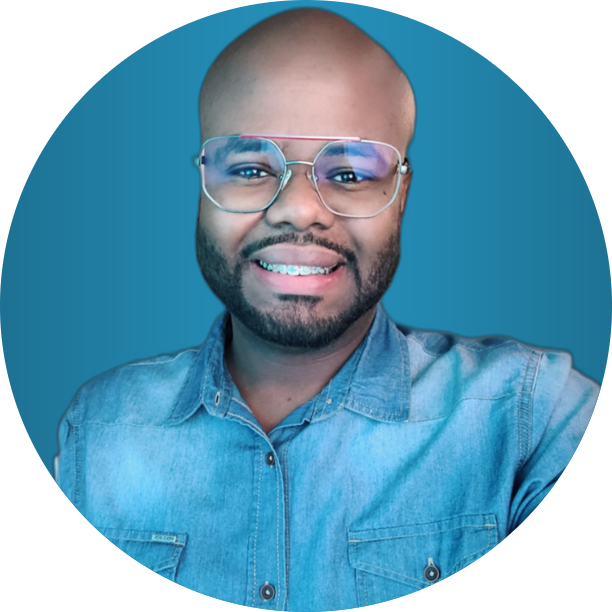
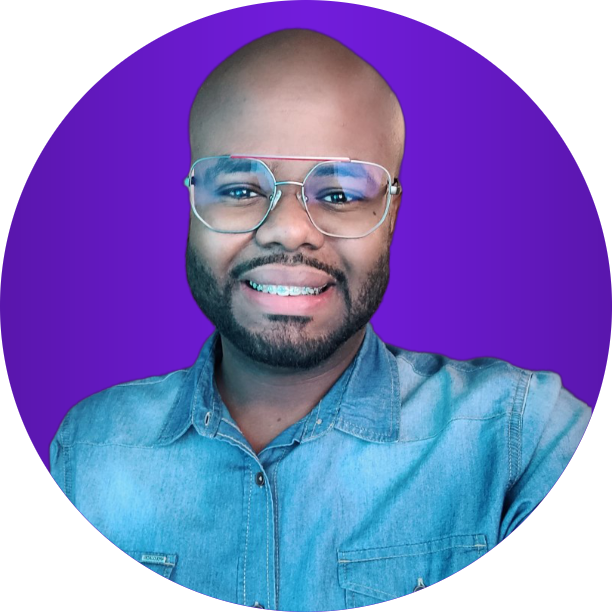
Responsividade

diff --git a/assets/css/home/about.css b/assets/css/home/about.css
@@ -42,18 +42,21 @@ main .about {
   background-color: var(--highlight-color);
 }
 .about img {
-   animation: sideSection .5s ease-in-out forwards;
+  animation: sideSection 0.5s ease-in-out forwards;
   cursor: pointer;
   grid-row: 2;
   max-width: 100%;
-  filter: blur(0);
+  opacity: 0.7;
+  border: 2px solid transparent;
+  border-radius: 50%;
 }
 .about img:hover {
-  transition: all ease 0.6s;
-  filter: blur(1px);
+  opacity: 0.8;
+  border: 2px solid #4f4f4f;
+  border-radius: 50%;
 }
 .about-content {
-   animation: aboutSection .6s ease-in-out forwards;
+  animation: aboutSection 0.6s ease-in-out forwards;
   grid-column: 2/-1;
   display: grid;
   grid-template-columns: repeat(2, 1fr);
@@ -123,5 +126,38 @@ main .about {
   }
   to {
     transform: translate3d(0, 0, 0);
+  }
+}
+
+@media (max-width: 992px) {
+  .about img {
+    grid-column: 1/-1;
+    justify-self: center;
+    max-width: 50%;
+  }
+
+  .about-content {
+    grid-column: 1/-1;
+  }
+}
+@media (max-width: 760px) {
+  .about-info {
+    grid-template-columns: 1fr;
+  }
+  .about-info a {
+    position: relative;
+  }
+  .about-info a::after {
+    content: "";
+    background-color: var(--highlight-color);
+    height: 2px;
+    width: 0%;
+    display: block;
+    transition: ease 0.3s;
+    margin-top: 5px;
+    position: absolute;
+  }
+  .about-info a:hover::after {
+    width: 100%;
   }
 }

diff --git a/index.html b/index.html
@@ -88,7 +88,7 @@
         <a href="#" class="curriculo">Download CV</a>
       </div>
       <figure class="developer-photo">
-        <img src="assets/img/foto3.png" alt="Foto de João Barbosa" />
+        <img src="assets/img/foto.png" alt="Foto de João Barbosa" />
       </figure>
     </section>
     <main class="js-scroll">
@@ -102,7 +102,7 @@
             <span></span>
           </div>
         </div>
-        <img src="assets/img/foto5.png" alt="Segunda foto de João Barbosa" />
+        <img src="assets/img/foto2.png" alt="Segunda foto de João Barbosa" />
         <div class="about-content">
           <div class="about-text">
             <h1>Eu sou João Barbosa</h1>
@@ -152,7 +152,9 @@
         </div>
       </article>
     </main>
-
+    <div class="scroll-button">
+      <i class="fa-solid fa-arrow-up"></i>
+    </div>
     <script src="assets/js/script.js"></script>
   </body>
 </html>

diff --git a/assets/css/home/curriculum.css b/assets/css/home/curriculum.css
@@ -76,11 +76,22 @@
     opacity: 0;
   }
 }
-
-@media (max-width: 920px) {
+@media (max-width: 992px) {
   .section-curriculum {
-    animation: init 0.7s forwards;
-    display: grid;
-    grid-template-columns: 1fr;
+    gap: 3.5rem;
+    padding: 2rem;
+    margin-top: 1rem;
+  }
+  .developer-photo {
+    grid-row: 1;
+    grid-column: 1/-1;
+    display: flex;
+    max-width: 70%;
+    justify-self: center;
+  }
+  .section-curriculum div {
+    margin-top: 3rem;
+    grid-column: 1/-1;
   }
 }
+

diff --git a/assets/css/global/global.css b/assets/css/global/global.css
@@ -34,3 +34,20 @@ img {
   opacity: 1;
   transform: translate3d(0, 0, 0);
 }
+.scroll-button {
+  background-color: var(--highlight-color);
+  height: 40px;
+  width: 40px;
+  border-radius: 50%;
+  position: fixed;
+  right: 20px;
+  bottom: 20px;
+  z-index: 999;
+  cursor: pointer;
+  display: flex;
+  justify-content: center;
+  align-items: center;
+  font-size: 1.5rem;
+  color: var(--white-color);
+  display: none;
+}

diff --git a/assets/css/global/header.css b/assets/css/global/header.css
@@ -37,7 +37,7 @@ header h1 {
   color: #fff;
 }
 
-@media (max-width: 920px) {
+@media (max-width: 992px) {
   .menu .menu-navigation {
     display: block;
     position: absolute;
